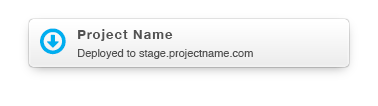
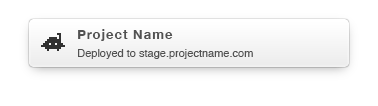
new images

Changed region(s): [[0.0873, 0.2547, 0.1746, 0.5094]]

diff --git a/app/assets/stylesheets/layout.css.less b/app/assets/stylesheets/layout.css.less
@@ -34,10 +34,10 @@ body {
     content: "";
     position: absolute;
     width: 55px;
-    height: 40px;
+    height: 42px;
     background: image-url("main-header-title-before.png") no-repeat left top;
     background-size: 55px 40px;
-    left: -75px;
+    left: -83px;
     top: 0;
   }
 }
